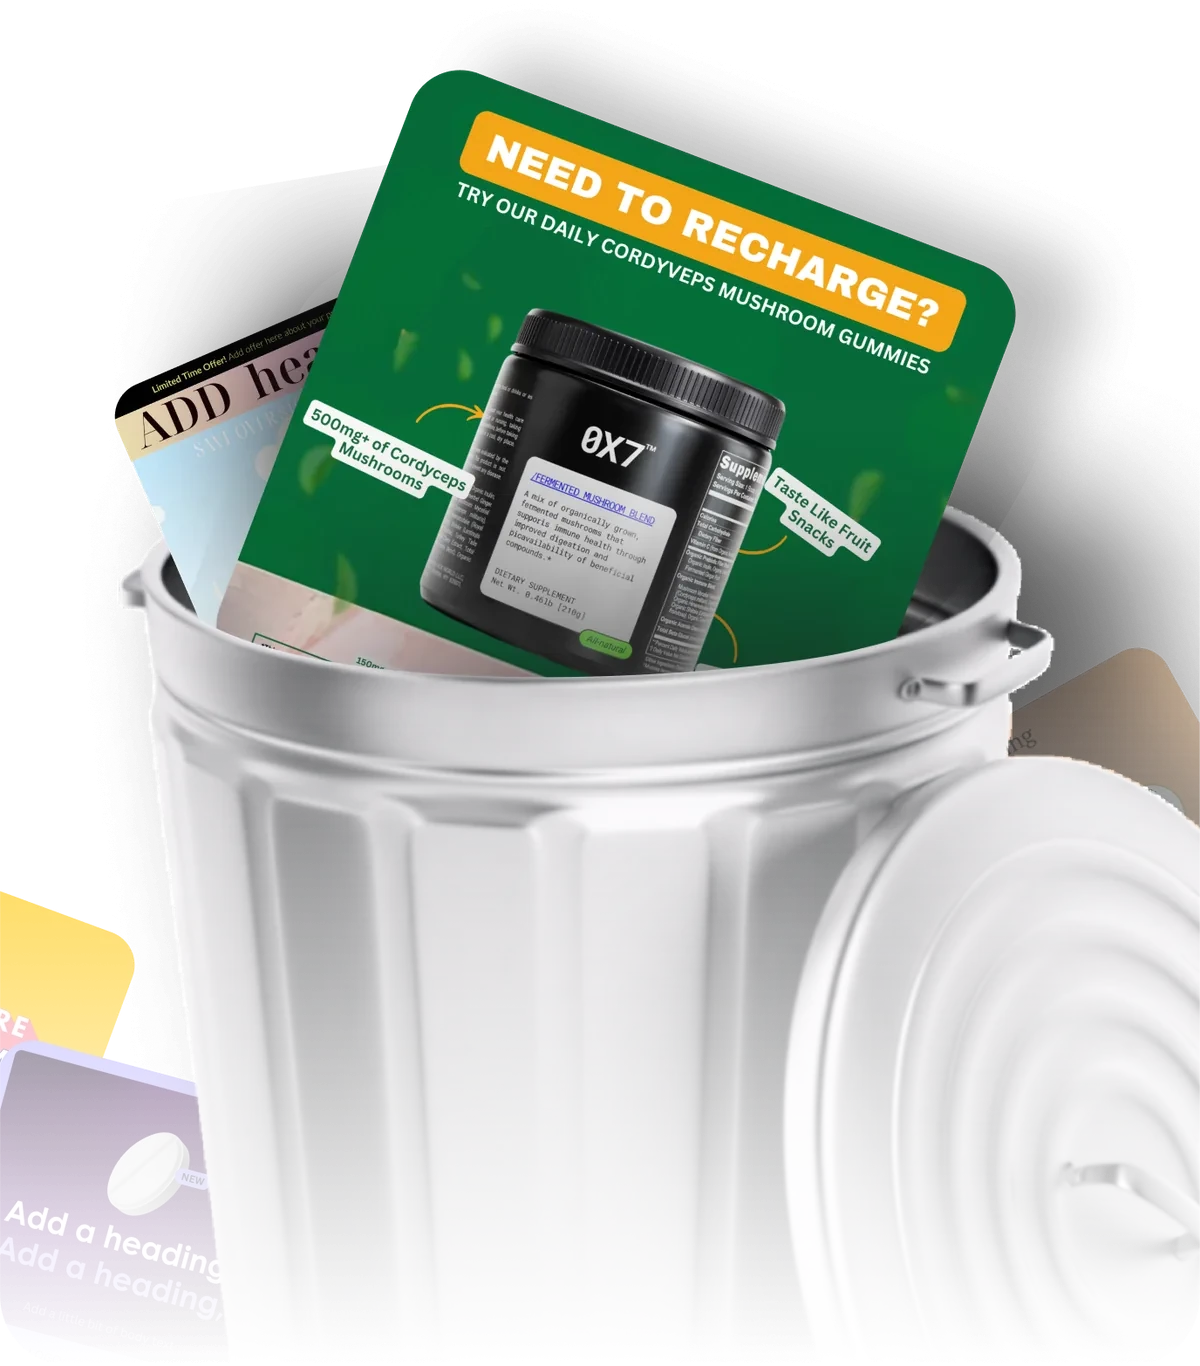
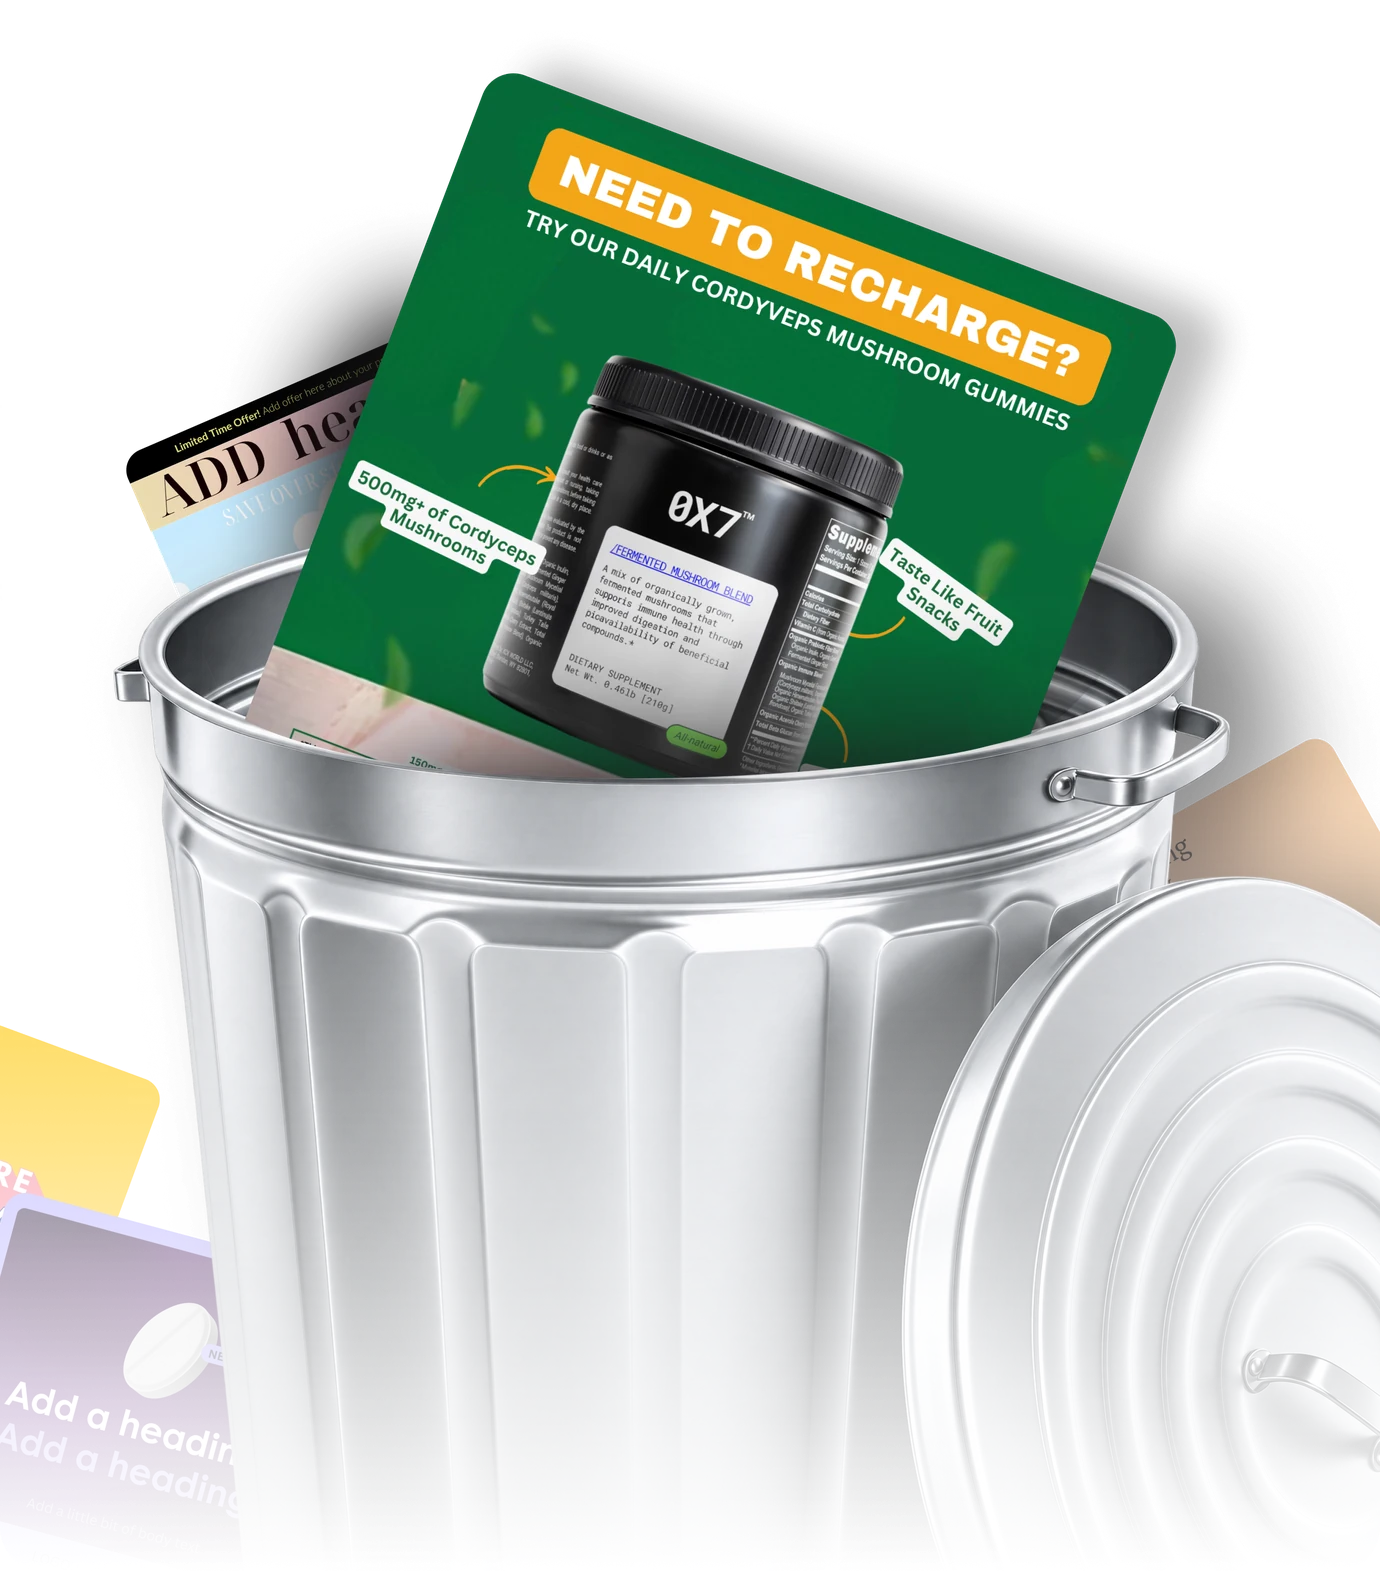
The Difference bin is re-cut from the client's full-resolution master
"bin with an ad.png" at 2520 x 3107 (Žilvinas 2026-09-18, "this has the
highest quality"). Both existing cuts were registered against it by template
match and each is the master less its empty top band — 237 rows for the
phone's, 292 for the desktop's — so they are re-cut at the same windows and
nothing on either card moved.

  phone    1200 x 1366 → 1380 x 1572 (4x its 345 span), from 2.1x the
           source pixels of the Siuksline.png export
  desktop  1800 x 2013 → 2000 x 2234, from 1.4x the source pixels

alpha_quality 90 on both: the bottom fade re-encodes within one level of the
master, and it is the lossless alpha that was carrying the weight.

diff --git a/src/components/TemplateSections.tsx b/src/components/TemplateSections.tsx
@@ -1806,15 +1806,23 @@ export function TemplatesDifference() {
                   that machinery — and the pixel-perfect registration it
                   depended on — is gone. diff-ad-add, diff-ad-bad and
                   diff-can-front are no longer rendered. */}
-              {/* PHONE: its own master (Siuksline.png, Žilvinas 2026-09-11 —
-                  adds the "ADD heading" ad in the bin). The art hard-cuts the
-                  ads on the left and the lid on the right; the export is
-                  cropped to exactly those two cuts and drawn edge to edge, so
-                  they land on the card's own edges instead of as a visible
-                  line 14px inside it. The bin fades out at the bottom in the
-                  art itself, so the card's bottom edge cuts only the fade.
-                  59 from the top puts the green ad ~80 down, clear of the
-                  chips. */}
+              {/* PHONE: the art hard-cuts the ads on the left and the lid on
+                  the right; the export is cropped to exactly those two cuts
+                  and drawn edge to edge, so they land on the card's own edges
+                  instead of as a visible line 14px inside it. The bin fades
+                  out at the bottom in the art itself, so the card's bottom
+                  edge cuts only the fade. 59 from the top puts the green ad
+                  ~80 down, clear of the chips.
+
+                  BOTH CUTS COME FROM ONE MASTER NOW (Žilvinas 2026-09-18,
+                  "bin with an ad.png", 2520 x 3107, "the highest quality"):
+                  each was registered against it by template match (0.92 and
+                  0.93) and turned out to be the master less its empty top —
+                  237 rows for this one, 292 for the desktop's — so they are
+                  re-cut from it at the same windows and nothing moved. The
+                  phone's is 1380 wide, 4x its 345 span, from a source that
+                  had 2.1x the pixels of the Siuksline.png export it replaces;
+                  alpha_quality 90 keeps the bottom fade within one level. */}
               <span className="absolute inset-x-0 top-[59px] block md:hidden">
                 <Img src="templates/diff-trashcan-phone.webp" alt="" className="w-full" />
               </span>
@@ -1822,7 +1830,9 @@ export function TemplatesDifference() {
                   with an ad.png"): the same composition at twice the
                   resolution, with a transparent ground instead of a baked
                   dark one — cropped to register 1:1 with the file it
-                  replaces, so the placement did not move. */}
+                  replaces, so the placement did not move. Re-cut 2026-09-18
+                  from the master at 2000 wide (was 1800 at 1.4x fewer source
+                  pixels); see the phone note above. */}
               <span className="absolute left-[-5%] top-[8%] hidden w-[110%] md:block">
                 <Img src="templates/diff-trashcan-v2.webp" alt="" className="w-full" />
               </span>
